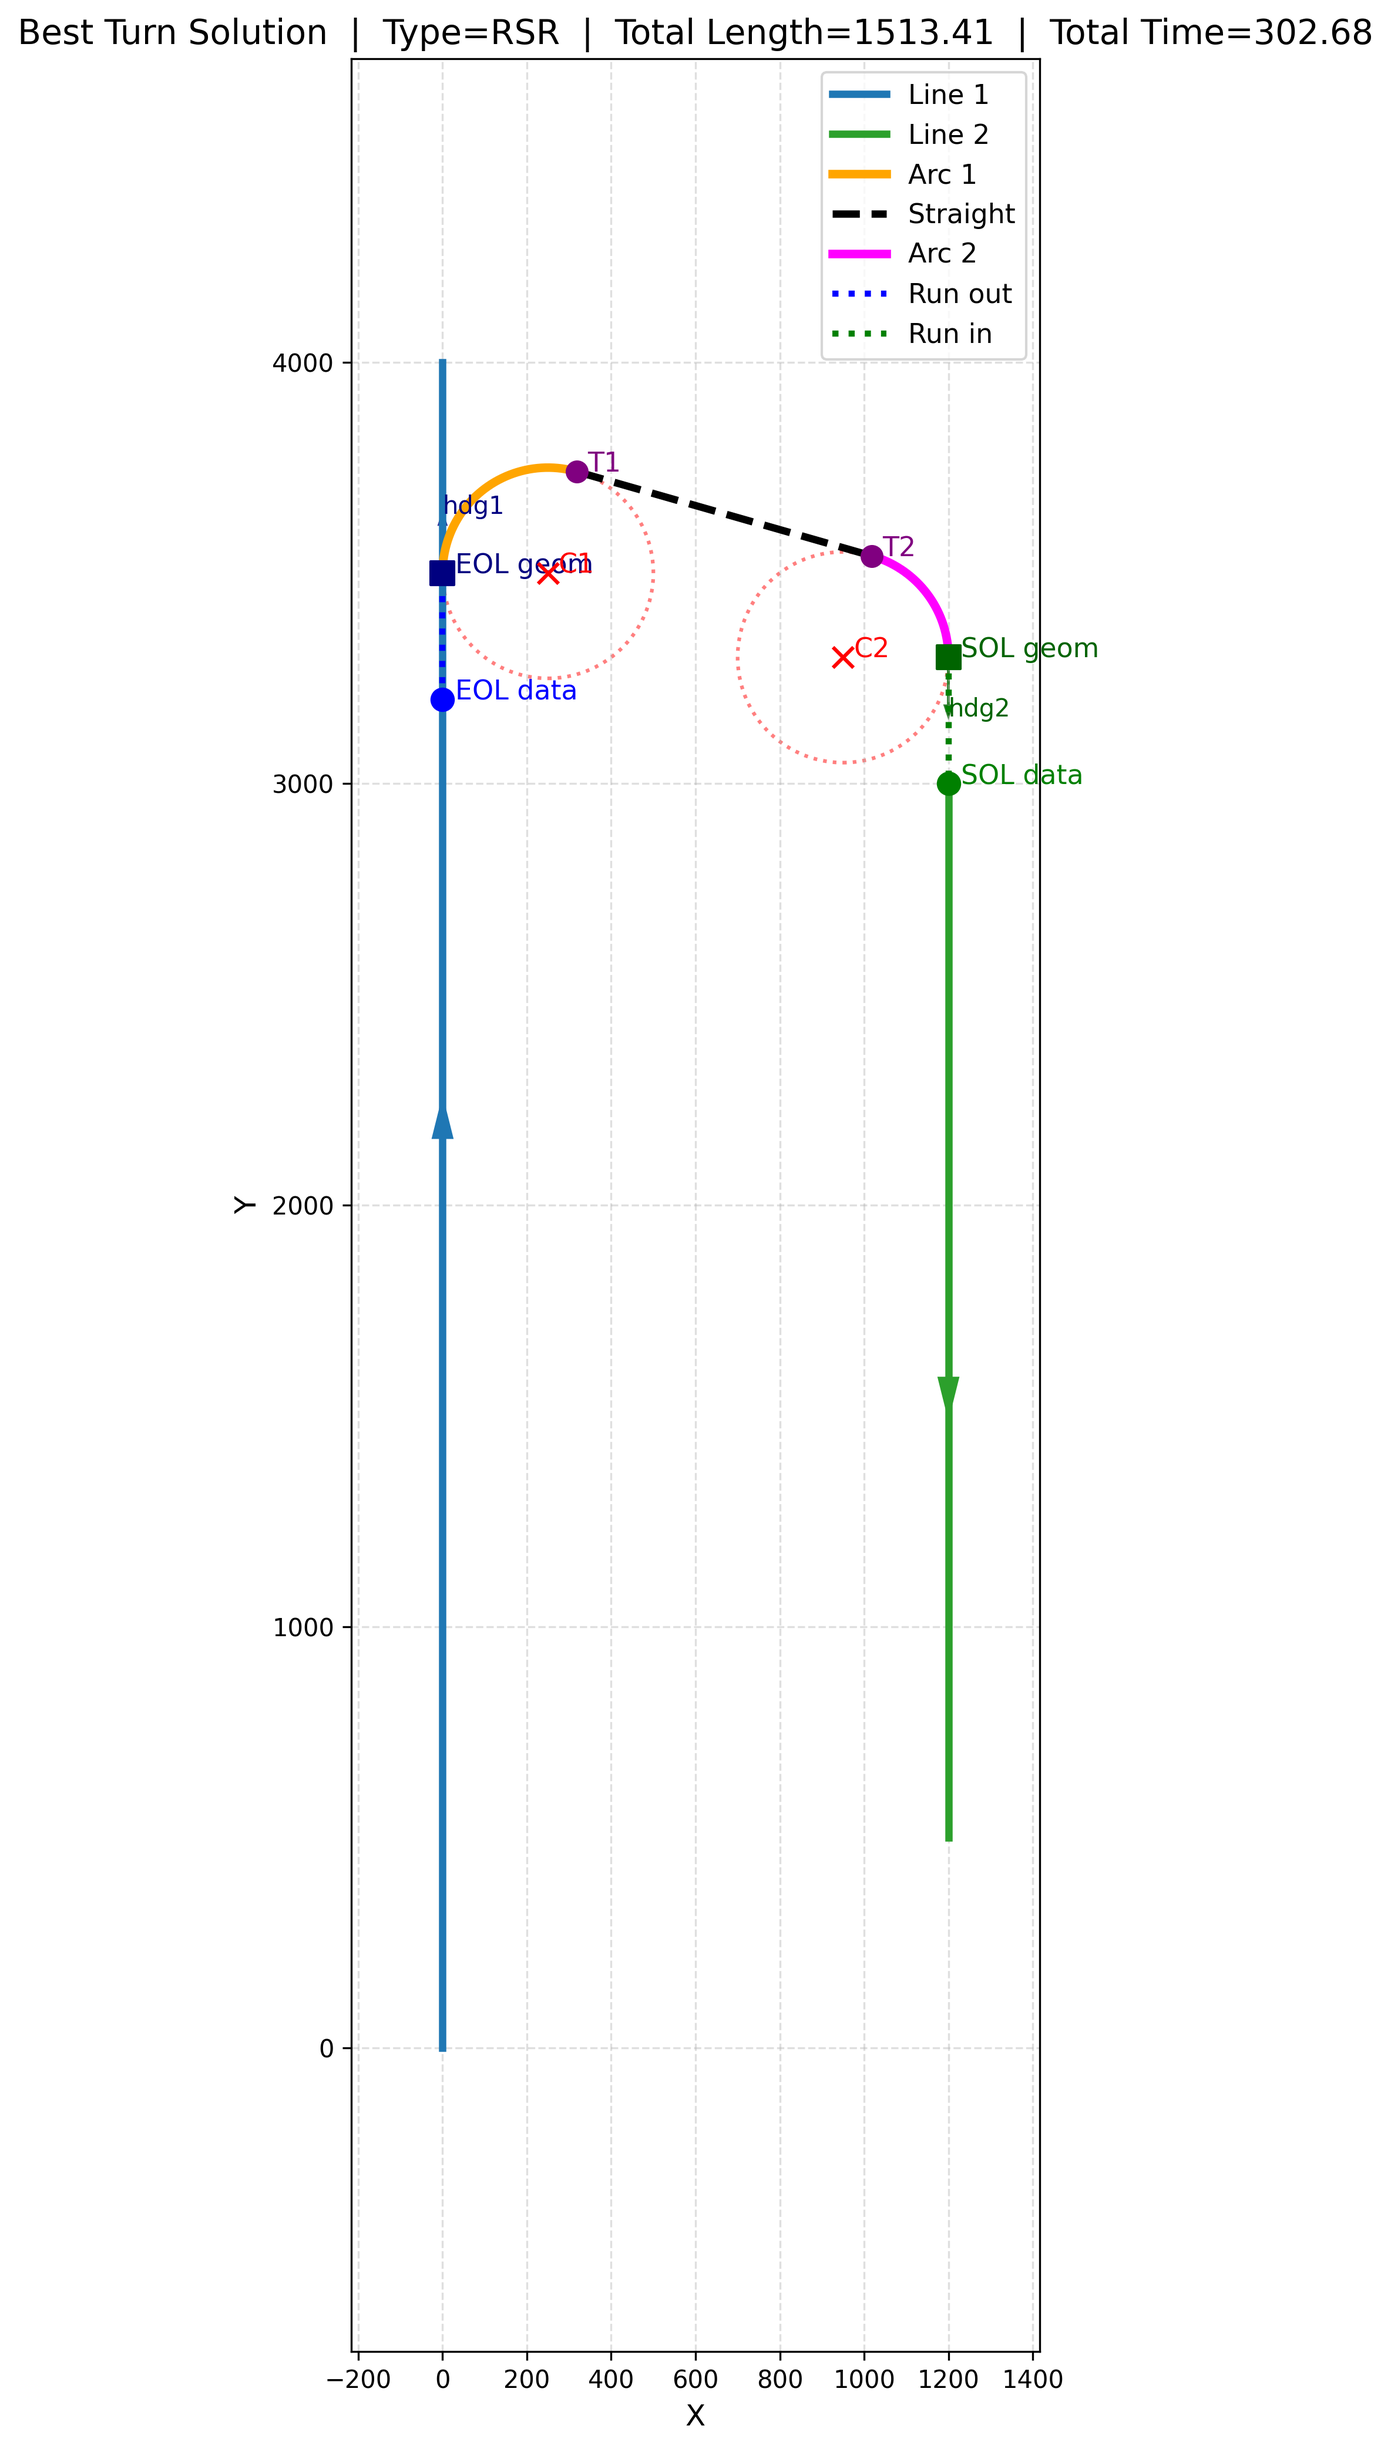
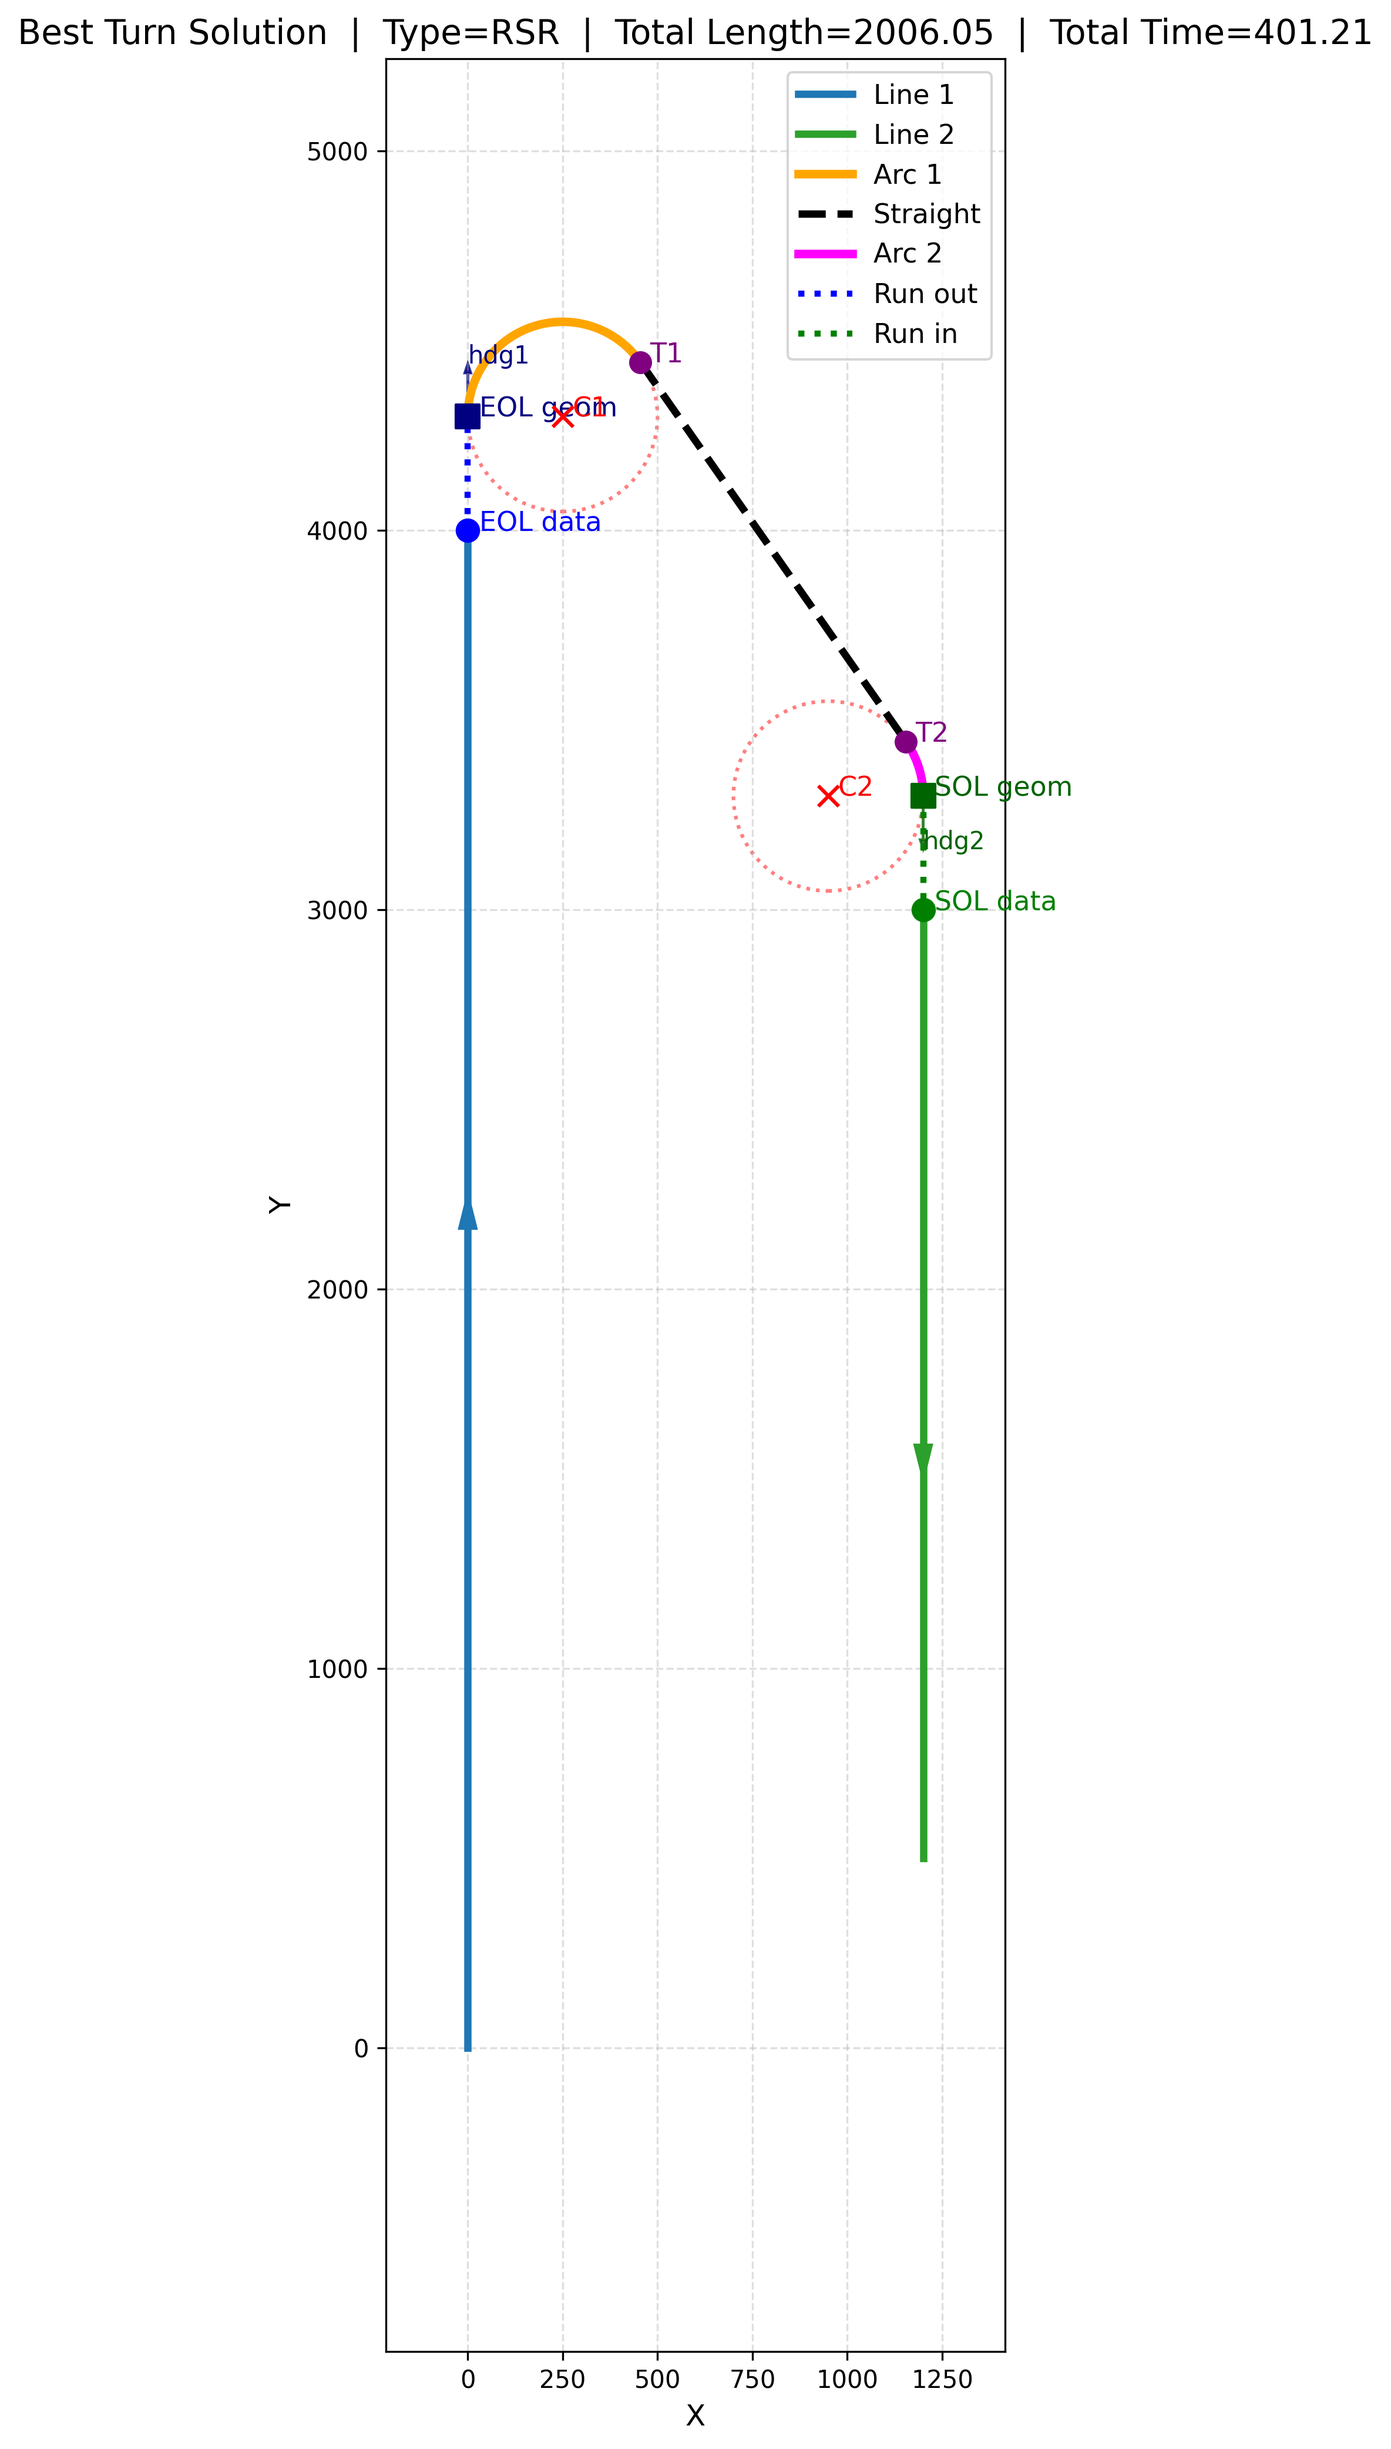
修正完版本 目前仅考虑 W >= 2R情况  一个杜宾斯曲线  另一个是直接走半圆到另一条测线

diff --git a/main.py b/main.py
@@ -463,8 +463,10 @@ def point_on_vertical_line(line: VerticalLine, y: float) -> Point:
 
 def build_eol_geom(line1: VerticalLine, eol_data_y: float, L_out: float) -> Tuple[State, Point]:
     """
-    EOL数据点可搜索
-    EOL几何点 = EOL数据点沿采集方向前进 L_out
+    EOL数据点 = 第一条测线上的离线数据点
+    EOL几何点 = EOL数据点沿测线方向继续走 L_out
+             = Run out 终点
+             = Dubins 转弯起点
     """
     data_pt = point_on_vertical_line(line1, eol_data_y)
     geom_pt = Point(line1.x, eol_data_y + line1.direction * L_out)
@@ -474,9 +476,9 @@ def build_eol_geom(line1: VerticalLine, eol_data_y: float, L_out: float) -> Tupl
 def build_sol_geom_fixed_head(line2: VerticalLine, L_in: float) -> Tuple[State, Point]:
     """
     SOL固定在线头（采集起点）
-    SOL数据点 = line2.y_start
     SOL几何点 = 在正式采集前，沿反方向回退 L_in
-              = data_pt - direction * L_in
+             = Run in 起点
+             = Dubins 转弯终点
     """
     sol_data_y = line2.y_start
     data_pt = point_on_vertical_line(line2, sol_data_y)
@@ -485,93 +487,47 @@ def build_sol_geom_fixed_head(line2: VerticalLine, L_in: float) -> Tuple[State, 
 
 
 # =========================
-# 候选搜索范围
+# 固定线尾/线头求解器
 # =========================
 
-def generate_candidate_eol_y(line1: VerticalLine, dy: float, search_back_length: float) -> List[float]:
-    """
-    在第一条线尾附近搜索 EOL
-    由于 y_end 定义为采集终点，所以直接围绕 y_end 搜索即可。
-    """
-    vals = []
-
-    if line1.direction > 0:
-        y0 = max(line1.y_start, line1.y_end - search_back_length)
-        y1 = line1.y_end
-        y = y0
-        while y <= y1 + EPS:
-            vals.append(y)
-            y += dy
-    else:
-        y0 = min(line1.y_start, line1.y_end + search_back_length)
-        y1 = line1.y_end
-        y = y0
-        while y >= y1 - EPS:
-            vals.append(y)
-            y -= dy
-
-    return vals
-
-
-# =========================
-# 主优化器：W > 2R 时走 CSC
-# =========================
-
-def optimize_turn_between_vertical_lines(
+def solve_fixed_head_tail_turn_between_vertical_lines(
     line1: VerticalLine,
     line2: VerticalLine,
     L_out: float,
     L_in: float,
     R: float,
     speed: float,
-    dy_eol: float = 50.0,
-    search_back_length: float = 1000.0,
     debug: bool = False
 ) -> Optional[TurnCandidate]:
-    best: Optional[TurnCandidate] = None
+    """
+    固定：
+    - 第一条线必须完整跑到线尾 EOL_data = line1.y_end
+    - 第二条线从线头开始上线 SOL_data = line2.y_start
 
-    eol_candidates = generate_candidate_eol_y(line1, dy_eol, search_back_length)
-    sol_geom, sol_data_point = build_sol_geom_fixed_head(line2, L_in)
+    即：
+    - EOL 不搜索
+    - SOL 不搜索
+    """
+    eol_data_y = line1.y_end
     sol_data_y = line2.y_start
 
-    if debug:
-        print(f"[SEARCH CSC] EOL candidates={len(eol_candidates)}, SOL fixed at line head y={sol_data_y:.2f}")
+    eol_geom, eol_data_point = build_eol_geom(line1, eol_data_y, L_out)
+    sol_geom, sol_data_point = build_sol_geom_fixed_head(line2, L_in)
 
-    for idx, eol_y in enumerate(eol_candidates):
-        eol_geom, eol_data_point = build_eol_geom(line1, eol_y, L_out)
+    dubins = shortest_dubins_csc(eol_geom, sol_geom, R, speed, debug=debug)
+    if not dubins.valid:
+        return None
 
-        local_debug = False
-        # local_debug = debug and (idx == len(eol_candidates) - 1)
-
-        dubins = shortest_dubins_csc(eol_geom, sol_geom, R, speed, debug=local_debug)
-        if not dubins.valid:
-            continue
-
-        total_cost = dubins.total_time
-
-        cand = TurnCandidate(
-            eol_data_y=eol_y,
-            sol_data_y=sol_data_y,
-            eol_data_point=eol_data_point,
-            sol_data_point=sol_data_point,
-            eol_geom=eol_geom,
-            sol_geom=sol_geom,
-            dubins=dubins,
-            total_cost=total_cost
-        )
-
-        if best is None or cand.total_cost < best.total_cost:
-            best = cand
-            if debug:
-                print(
-                    f"[UPDATE BEST CSC] eol_y={eol_y:.2f}, "
-                    f"sol_y={sol_data_y:.2f}, "
-                    f"type={dubins.path_type}, "
-                    f"total_length={dubins.total_length:.3f}, "
-                    f"total_time={dubins.total_time:.3f}"
-                )
-
-    return best
+    return TurnCandidate(
+        eol_data_y=eol_data_y,
+        sol_data_y=sol_data_y,
+        eol_data_point=eol_data_point,
+        sol_data_point=sol_data_point,
+        eol_geom=eol_geom,
+        sol_geom=sol_geom,
+        dubins=dubins,
+        total_cost=dubins.total_time
+    )
 
 
 # =========================
@@ -593,11 +549,9 @@ def solve_w_eq_2r_semicircle(
         直线 + 半圆 + 直线
     其中前后直线某一段可能为 0。
 
-    几何约束：
-    1) 两测线横向间距 W = 2R
-    2) 起终测线应为反向航向（典型平行往返测线）
-    3) 前置直线必须沿 start heading 前进
-    4) 后置直线必须沿目标测线方向接入 SOL_geom
+    这里的 start_state / end_state 分别就是：
+    - EOL_geom = Run out 终点
+    - SOL_geom = Run in 起点
     """
 
     x1, y1 = start_state.p.x, start_state.p.y
@@ -609,7 +563,6 @@ def solve_w_eq_2r_semicircle(
             print(f"[W=2R SEMI] invalid: W={W:.6f}, 2R={2.0 * R:.6f}")
         return SemicircleTurnPath(valid=False)
 
-    # 典型反向平行测线换线
     h1x, h1y = cos(start_state.heading), sin(start_state.heading)
     h2x, h2y = cos(end_state.heading), sin(end_state.heading)
     heading_dot = h1x * h2x + h1y * h2y
@@ -618,11 +571,7 @@ def solve_w_eq_2r_semicircle(
             print(f"[W=2R SEMI] invalid: headings are not opposite enough, dot={heading_dot:.6f}")
         return SemicircleTurnPath(valid=False)
 
-    # 枚举两个自然候选高度：
-    # y*=y1: 先半圆，再在目标线上走到 end
-    # y*=y2: 先在起始线上走到 y2，再做半圆
     candidate_y_stars = [y1, y2]
-
     feasible_paths: List[SemicircleTurnPath] = []
 
     for y_star in candidate_y_stars:
@@ -630,13 +579,11 @@ def solve_w_eq_2r_semicircle(
         semi_end = Point(x2, y_star)
         center = Point((x1 + x2) / 2.0, y_star)
 
-        # 前直线必须沿 start heading 前进
         if not point_is_ahead_along_heading(start_state.p, start_state.heading, semi_start, tol=tol):
             if debug:
                 print(f"[W=2R SEMI] reject y*={y_star:.3f}: pre-straight not along start heading")
             continue
 
-        # 后直线必须沿 end heading 前进
         if not point_is_ahead_along_heading(semi_end, end_state.heading, end_state.p, tol=tol):
             if debug:
                 print(f"[W=2R SEMI] reject y*={y_star:.3f}: post-straight not along end heading")
@@ -648,7 +595,6 @@ def solve_w_eq_2r_semicircle(
         total_length = pre_straight + arc_length + post_straight
         total_time = total_length / speed
 
-        # 判断半圆转向方向
         rx = semi_start.x - center.x
         ry = semi_start.y - center.y
 
@@ -708,75 +654,54 @@ def solve_w_eq_2r_semicircle(
     return best
 
 
-def optimize_w_eq_2r_semicircle_turn(
+def solve_fixed_head_tail_w_eq_2r_semicircle_turn(
     line1: VerticalLine,
     line2: VerticalLine,
     L_out: float,
     L_in: float,
     R: float,
     speed: float,
-    dy_eol: float = 50.0,
-    search_back_length: float = 1000.0,
     tol: float = 1e-6,
     debug: bool = False
 ) -> Optional[SemicircleTurnCandidate]:
     """
-    独立处理 W = 2R 的换线优化。
-    与原 CSC 逻辑完全隔离。
+    W = 2R 的独立半圆逻辑，且：
+    - EOL 固定在线尾
+    - SOL 固定在线头
     """
     W = abs(line2.x - line1.x)
     if abs(W - 2.0 * R) > tol:
         if debug:
-            print(f"[OPT SEMI] skip: W={W:.6f} is not equal to 2R={2.0 * R:.6f}")
+            print(f"[FIXED SEMI] skip: W={W:.6f}, 2R={2.0 * R:.6f}")
         return None
 
-    best: Optional[SemicircleTurnCandidate] = None
-
-    eol_candidates = generate_candidate_eol_y(line1, dy_eol, search_back_length)
-    sol_geom, sol_data_point = build_sol_geom_fixed_head(line2, L_in)
+    eol_data_y = line1.y_end
     sol_data_y = line2.y_start
 
-    if debug:
-        print(f"[OPT SEMI] EOL candidates={len(eol_candidates)}, SOL fixed at line head y={sol_data_y:.2f}")
+    eol_geom, eol_data_point = build_eol_geom(line1, eol_data_y, L_out)
+    sol_geom, sol_data_point = build_sol_geom_fixed_head(line2, L_in)
 
-    for eol_y in eol_candidates:
-        eol_geom, eol_data_point = build_eol_geom(line1, eol_y, L_out)
+    semi = solve_w_eq_2r_semicircle(
+        start_state=eol_geom,
+        end_state=sol_geom,
+        R=R,
+        speed=speed,
+        tol=tol,
+        debug=debug
+    )
+    if not semi.valid:
+        return None
 
-        semi = solve_w_eq_2r_semicircle(
-            start_state=eol_geom,
-            end_state=sol_geom,
-            R=R,
-            speed=speed,
-            tol=tol,
-            debug=False
-        )
-
-        if not semi.valid:
-            continue
-
-        total_cost = semi.total_time
-
-        cand = SemicircleTurnCandidate(
-            eol_data_y=eol_y,
-            sol_data_y=sol_data_y,
-            eol_data_point=eol_data_point,
-            sol_data_point=sol_data_point,
-            eol_geom=eol_geom,
-            sol_geom=sol_geom,
-            semi=semi,
-            total_cost=total_cost
-        )
-
-        if best is None or cand.total_cost < best.total_cost:
-            best = cand
-            if debug:
-                print(
-                    f"[OPT SEMI UPDATE] "
-                    f"eol_y={eol_y:.2f}, total_length={semi.total_length:.3f}, total_time={semi.total_time:.3f}, "
-                    f"pre={semi.pre_straight_length:.3f}, arc={semi.arc_length:.3f}, post={semi.post_straight_length:.3f}"
-                )
-
-    return best
+    return SemicircleTurnCandidate(
+        eol_data_y=eol_data_y,
+        sol_data_y=sol_data_y,
+        eol_data_point=eol_data_point,
+        sol_data_point=sol_data_point,
+        eol_geom=eol_geom,
+        sol_geom=sol_geom,
+        semi=semi,
+        total_cost=semi.total_time
+    )
 
 
 # =========================
@@ -790,7 +715,7 @@ def print_result(best: Optional[TurnCandidate]):
 
     d = best.dubins
     print("========== 最优换线结果 ==========")
-    print(f"EOL 数据点: ({best.eol_data_point.x:.3f}, {best.eol_data_point.y:.3f})")
+    print(f"EOL 数据点: ({best.eol_data_point.x:.3f}, {best.eol_data_point.y:.3f}) [固定在线尾]")
     print(f"SOL 数据点: ({best.sol_data_point.x:.3f}, {best.sol_data_point.y:.3f}) [固定在线头]")
     print(f"EOL 几何点: ({best.eol_geom.p.x:.3f}, {best.eol_geom.p.y:.3f})  heading={degrees(best.eol_geom.heading):.2f} deg")
     print(f"SOL 几何点: ({best.sol_geom.p.x:.3f}, {best.sol_geom.p.y:.3f})  heading={degrees(best.sol_geom.heading):.2f} deg")
@@ -816,7 +741,7 @@ def print_semicircle_result(best: Optional[SemicircleTurnCandidate]):
 
     s = best.semi
     print("====== W = 2R 半圆换线最优结果 ======")
-    print(f"EOL 数据点: ({best.eol_data_point.x:.3f}, {best.eol_data_point.y:.3f})")
+    print(f"EOL 数据点: ({best.eol_data_point.x:.3f}, {best.eol_data_point.y:.3f}) [固定在线尾]")
     print(f"SOL 数据点: ({best.sol_data_point.x:.3f}, {best.sol_data_point.y:.3f}) [固定在线头]")
     print(f"EOL 几何点: ({best.eol_geom.p.x:.3f}, {best.eol_geom.p.y:.3f})  heading={degrees(best.eol_geom.heading):.2f} deg")
     print(f"SOL 几何点: ({best.sol_geom.p.x:.3f}, {best.sol_geom.p.y:.3f})  heading={degrees(best.sol_geom.heading):.2f} deg")
@@ -888,13 +813,11 @@ def plot_turn_solution(
 
     fig, ax = plt.subplots(figsize=figsize, dpi=dpi)
 
-    # 测线
     ax.plot([line1.x, line1.x], [line1.y_start, line1.y_end],
             color="tab:blue", linewidth=3.0, label="Line 1")
     ax.plot([line2.x, line2.x], [line2.y_start, line2.y_end],
             color="tab:green", linewidth=3.0, label="Line 2")
 
-    # 测线方向箭头
     mid1 = 0.5 * (line1.y_start + line1.y_end)
     ax.arrow(line1.x, mid1, 0, 250 * line1.direction,
              head_width=45, head_length=90, fc="tab:blue", ec="tab:blue",
@@ -1134,9 +1057,7 @@ if __name__ == "__main__":
         direction=+1
     )
 
-    # 你可以修改这里测试不同场景
-    # 若想测试 W = 2R，设 x = 500.0（因为 R=250）
-    # 若想测试 W > 2R，设 x = 1200.0
+    # 第二条线：从上往下采
     line2 = VerticalLine(
         x=1200.0,
         y_start=3000.0,
@@ -1154,15 +1075,13 @@ if __name__ == "__main__":
     print(f"当前测线间距 W = {W:.3f}, 2R = {2.0 * R:.3f}")
 
     if abs(W - 2.0 * R) < 1e-6:
-        best_semi = optimize_w_eq_2r_semicircle_turn(
+        best_semi = solve_fixed_head_tail_w_eq_2r_semicircle_turn(
             line1=line1,
             line2=line2,
             L_out=L_out,
             L_in=L_in,
             R=R,
             speed=speed,
-            dy_eol=25.0,
-            search_back_length=800.0,
             debug=True
         )
 
@@ -1178,15 +1097,13 @@ if __name__ == "__main__":
             save_path="turn_solution_w_eq_2r.png"
         )
     else:
-        best = optimize_turn_between_vertical_lines(
+        best = solve_fixed_head_tail_turn_between_vertical_lines(
             line1=line1,
             line2=line2,
             L_out=L_out,
             L_in=L_in,
             R=R,
             speed=speed,
-            dy_eol=25.0,
-            search_back_length=800.0,
             debug=True
         )
 
